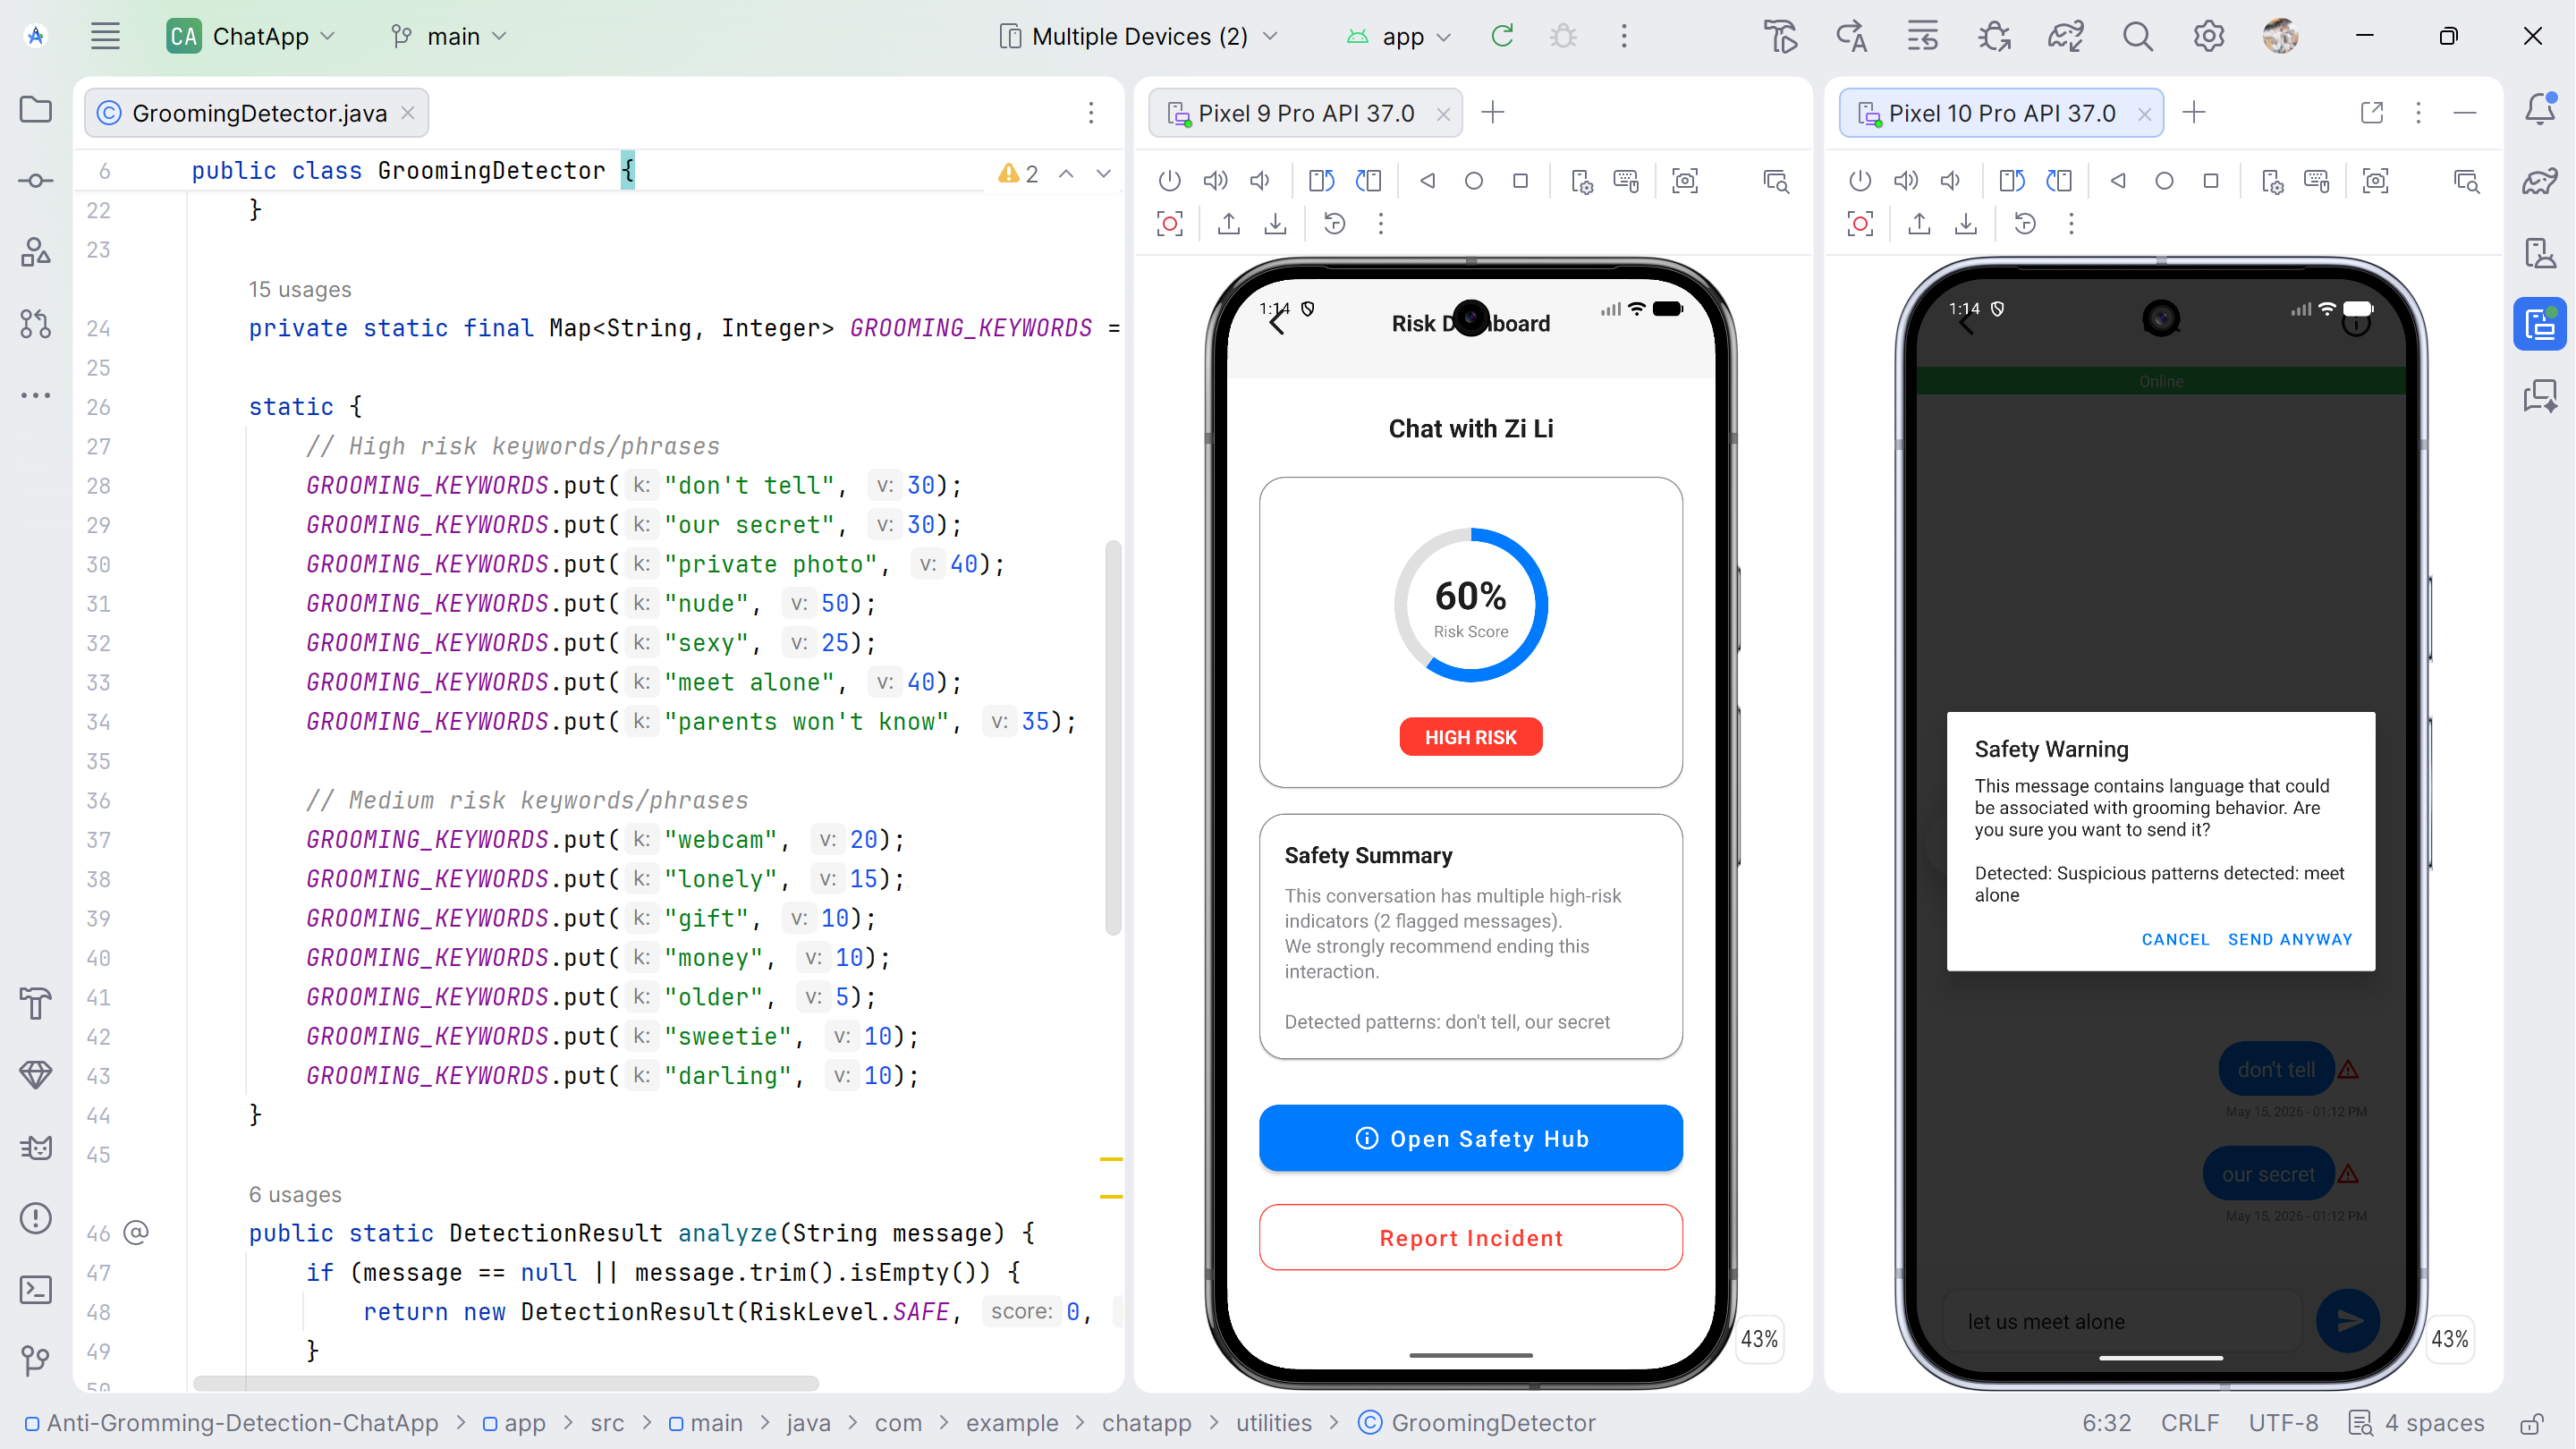
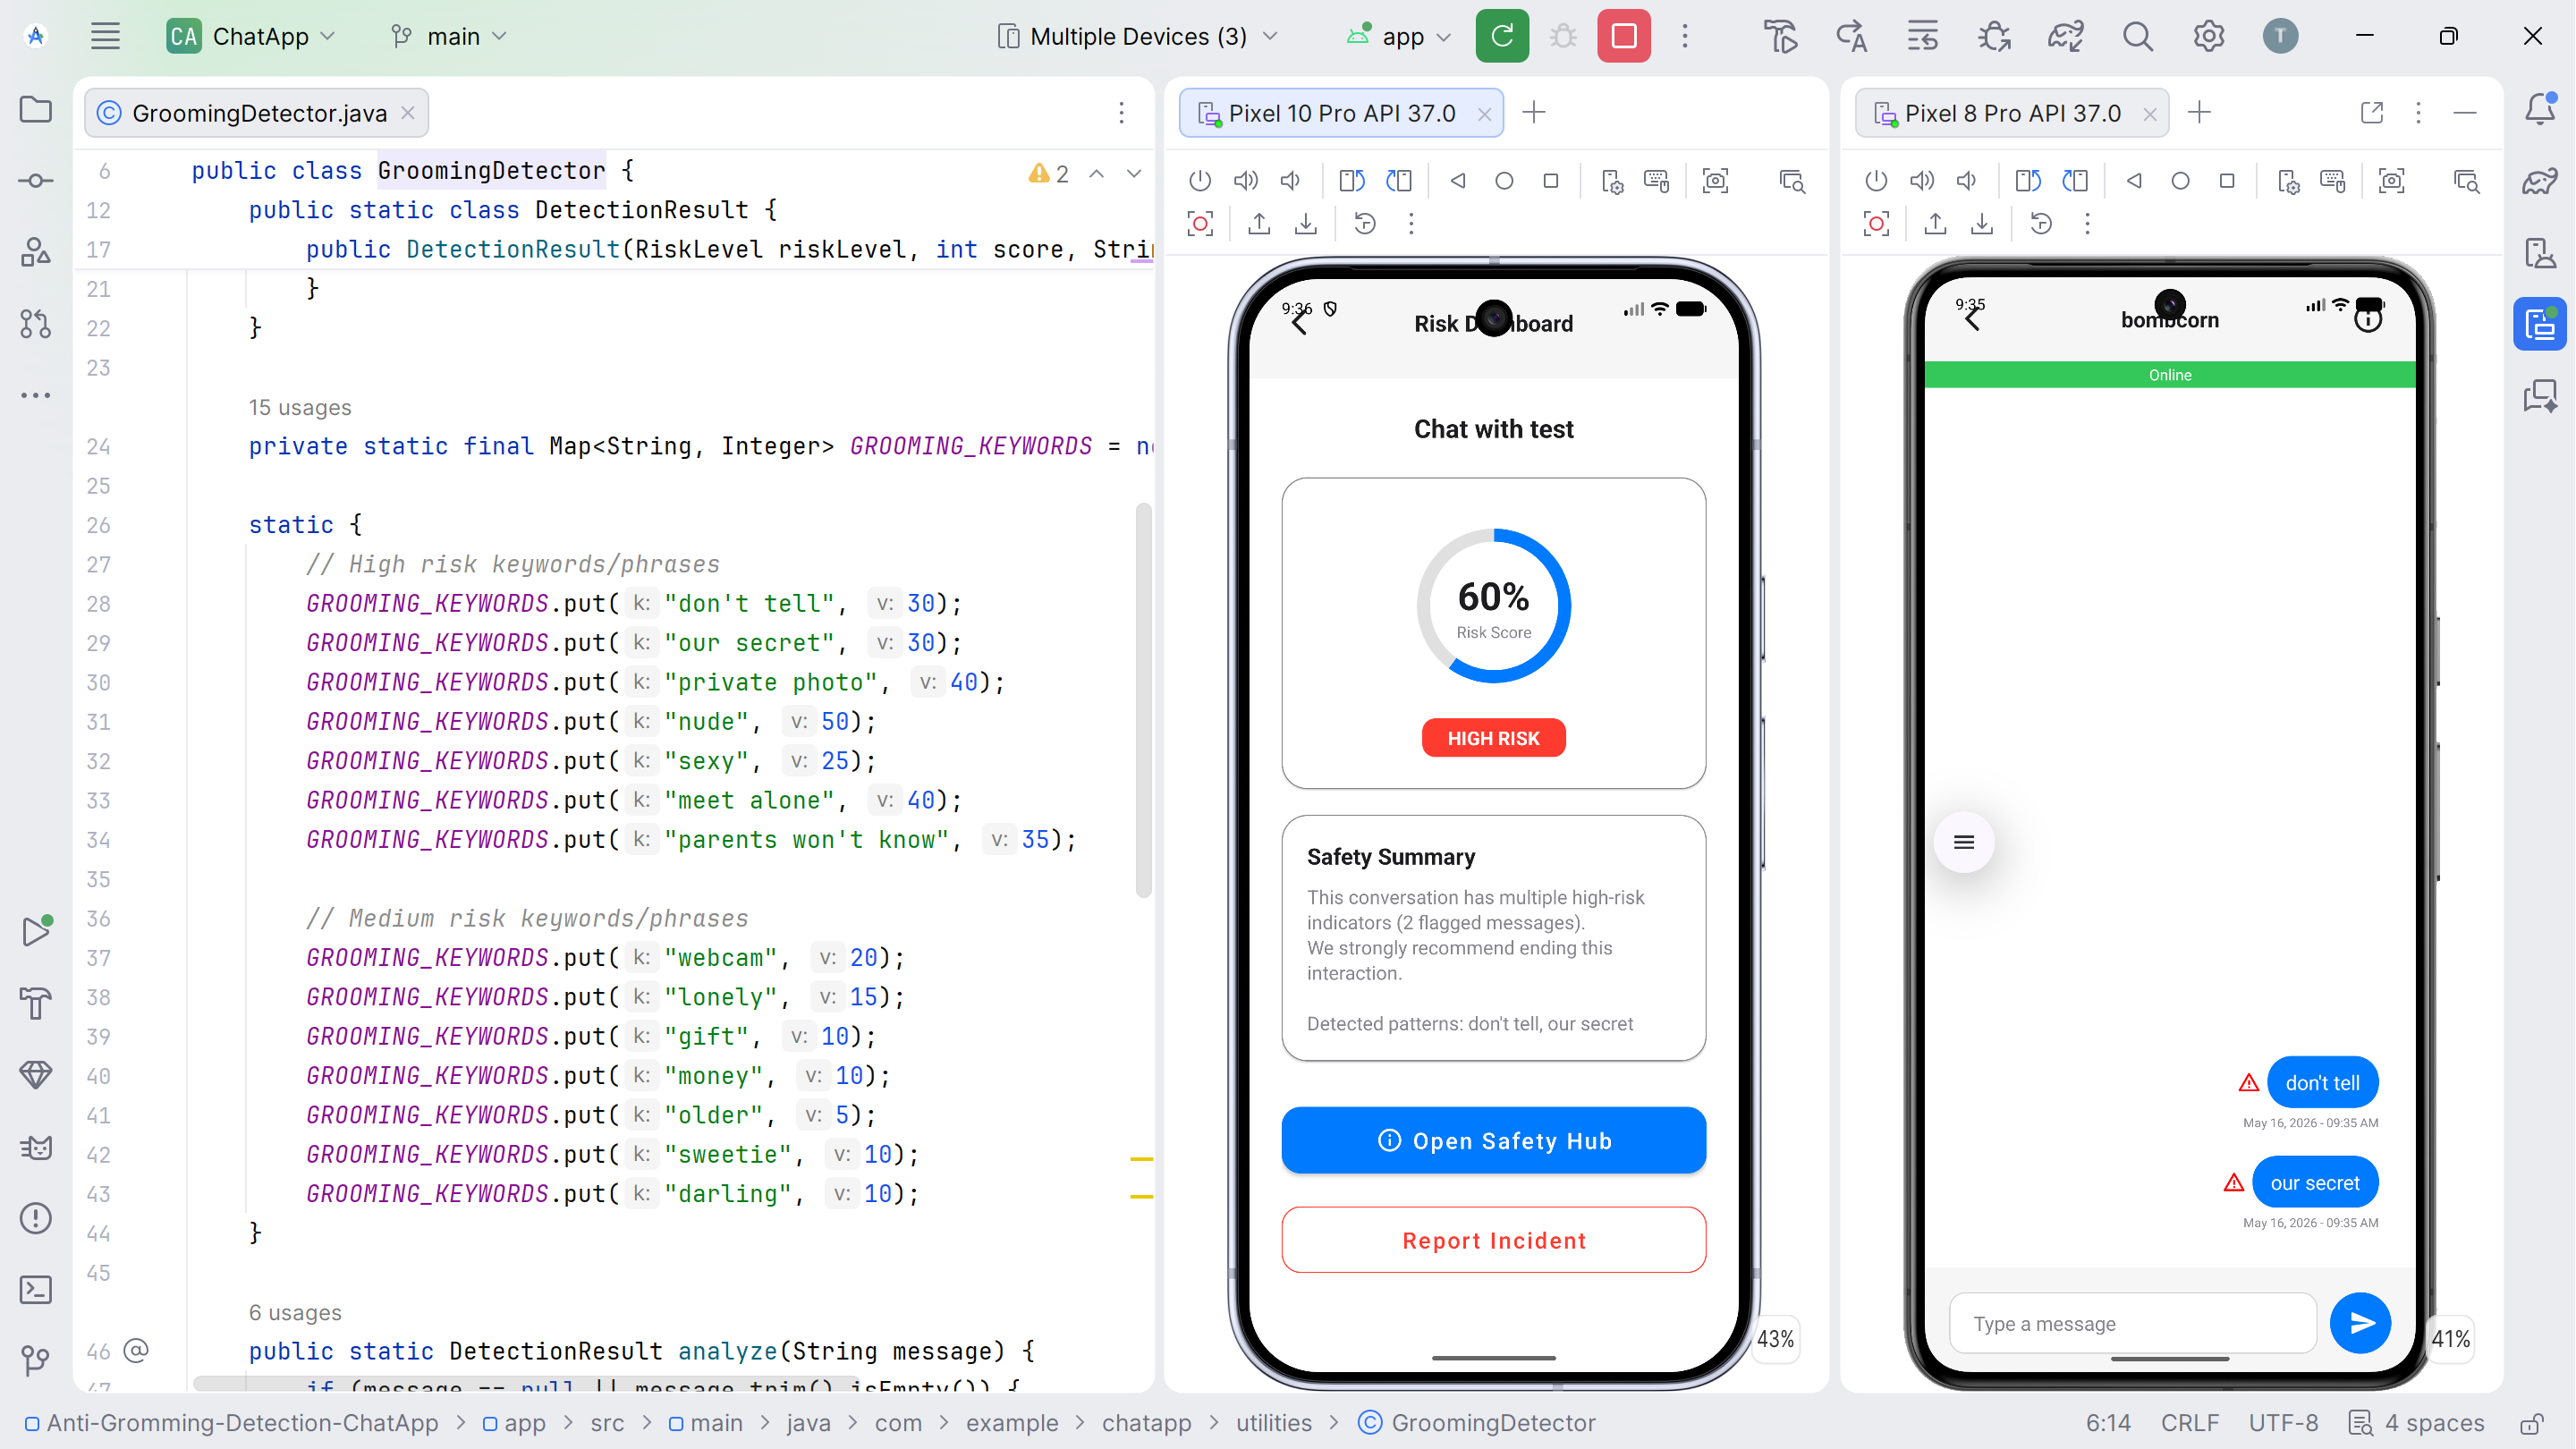
Update Readme

diff --git a/README.md b/README.md
@@ -4,7 +4,7 @@ A grooming-aware Android chat application built for female online safety. SafeCh
 
 ## Demo
 
-[![Download](https://img.shields.io/badge/Download-v1.0.0-blue?style=flat-square)](https://github.com/zilitye/Anti-Gromming-Detection-ChatApp/releases/download/v1.0.0/app-release.apk)
+[![Download](https://img.shields.io/badge/Download-v1.0.0-blue?style=flat-square)](https://github.com/zilitye/Anti-Gromming-Detection-ChatApp/releases/download/v1.0.1/app-release.apk)
 
 Install and run `app-release.apk`. Requires Android 7.0 or higher
 